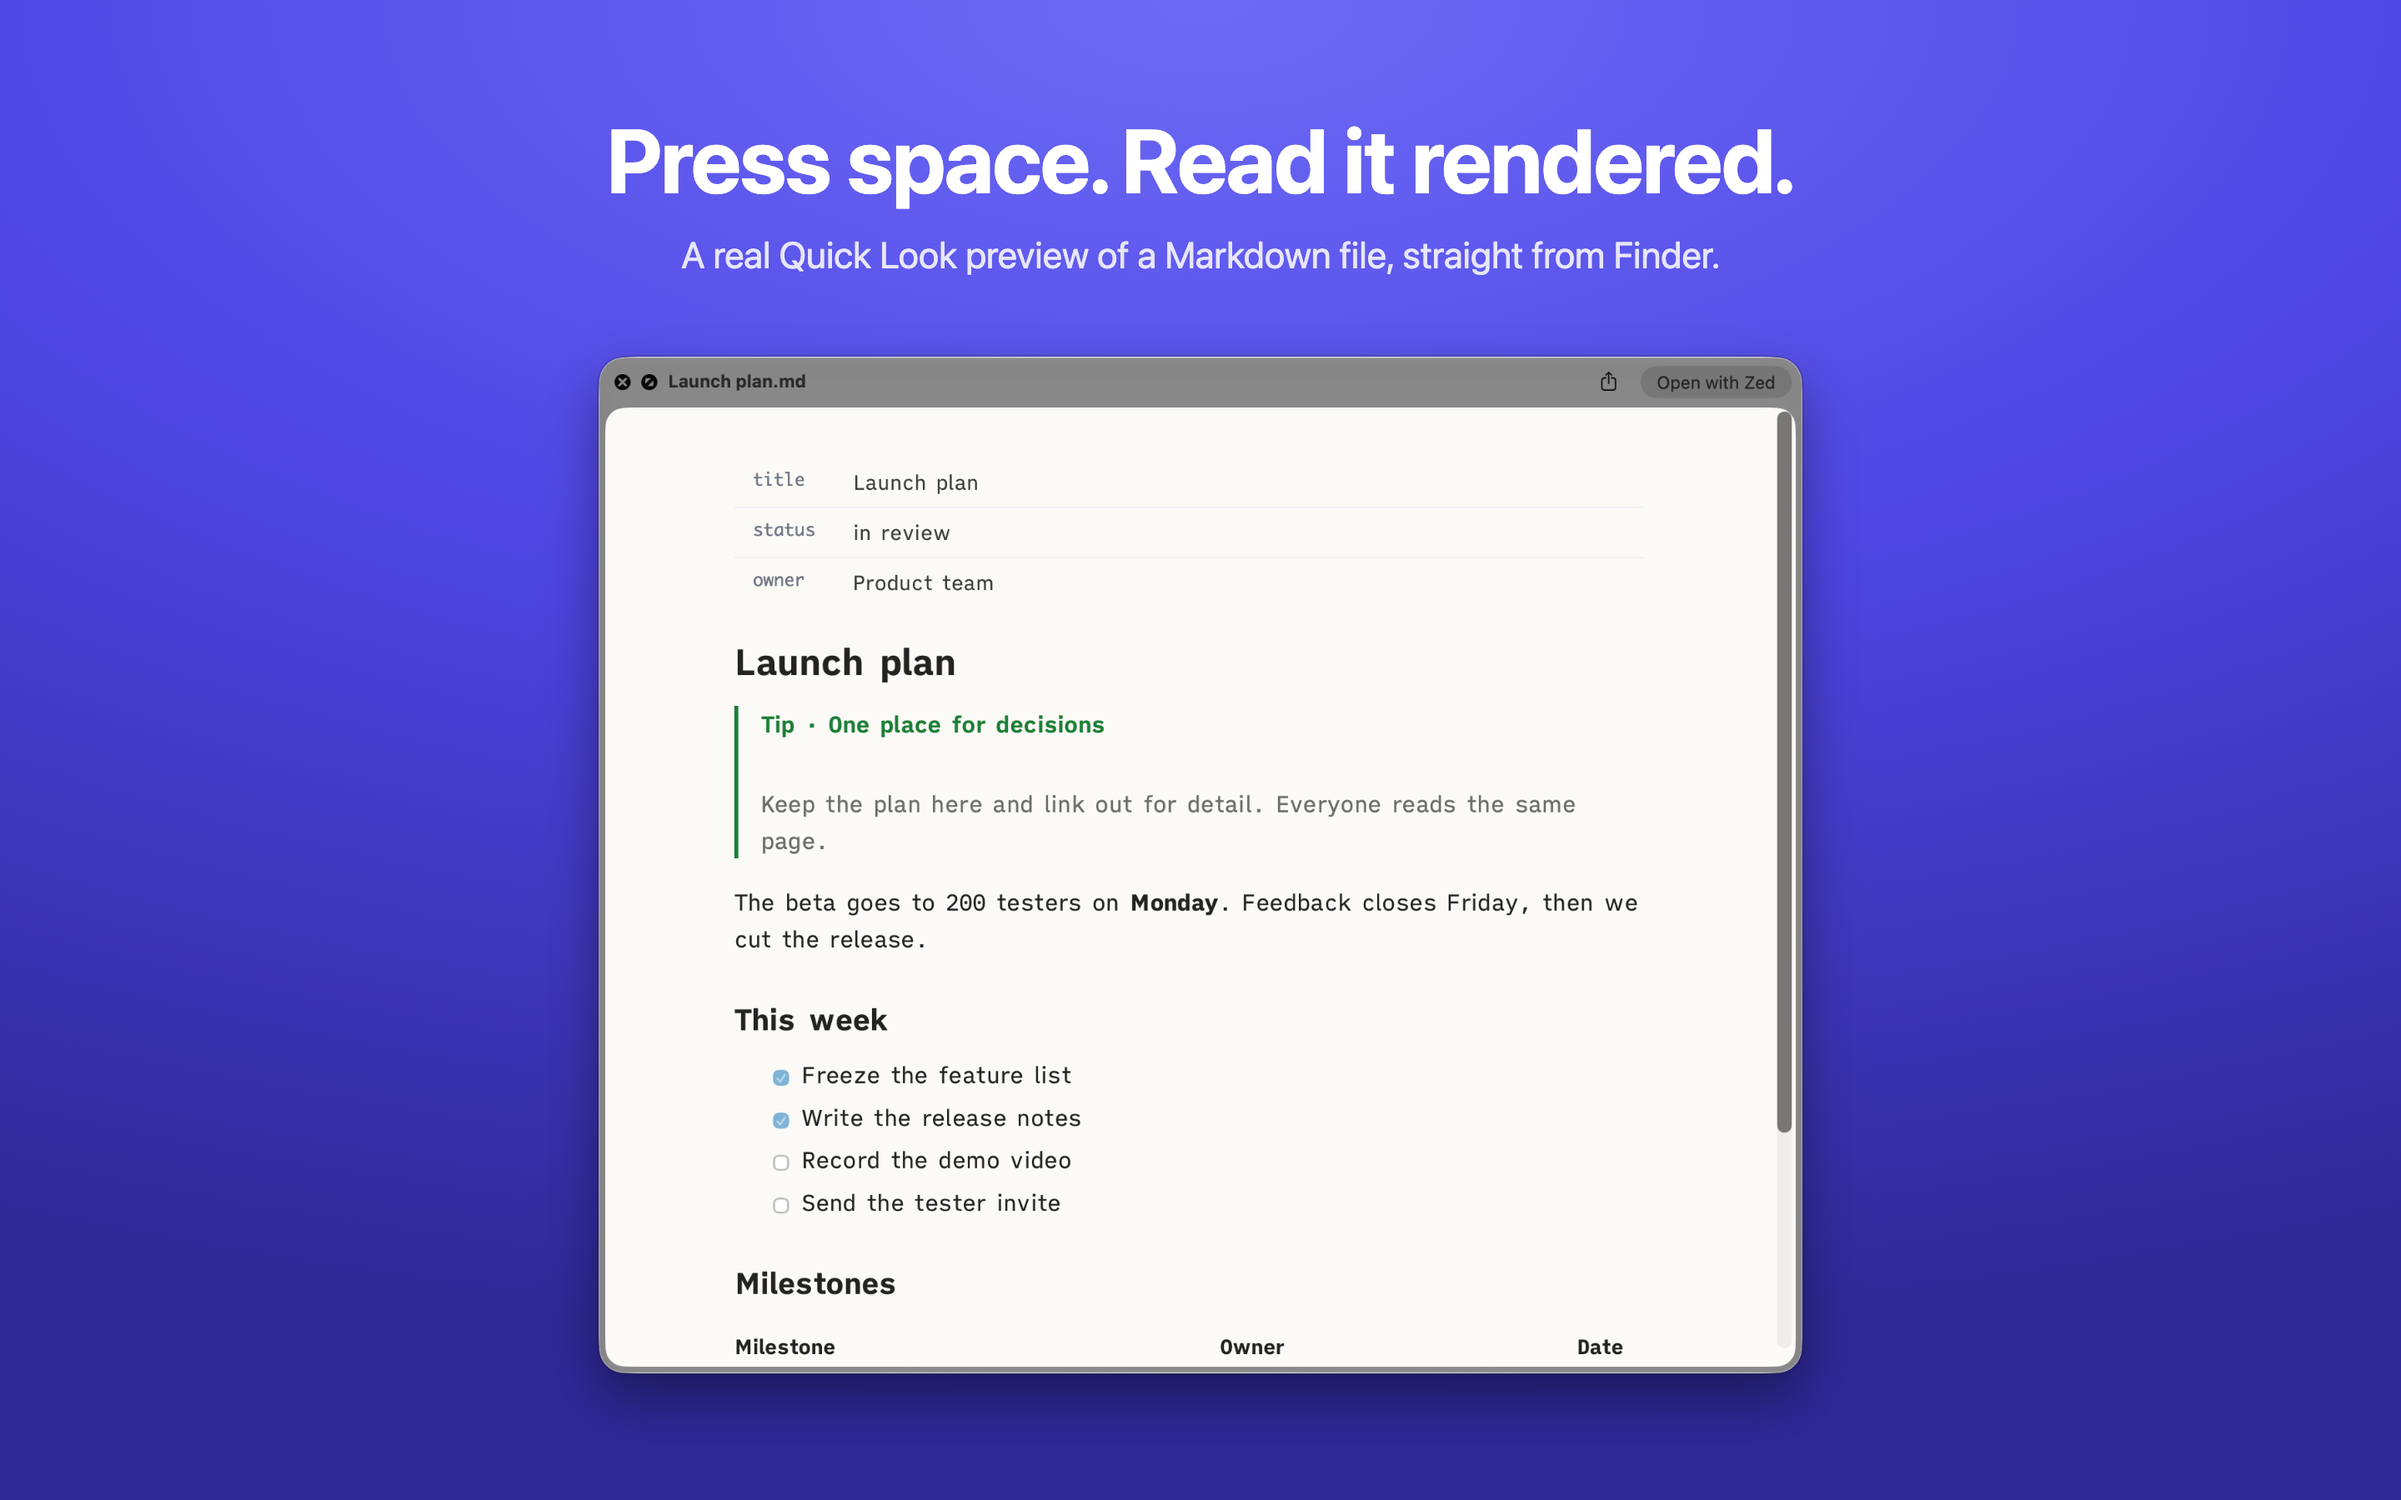
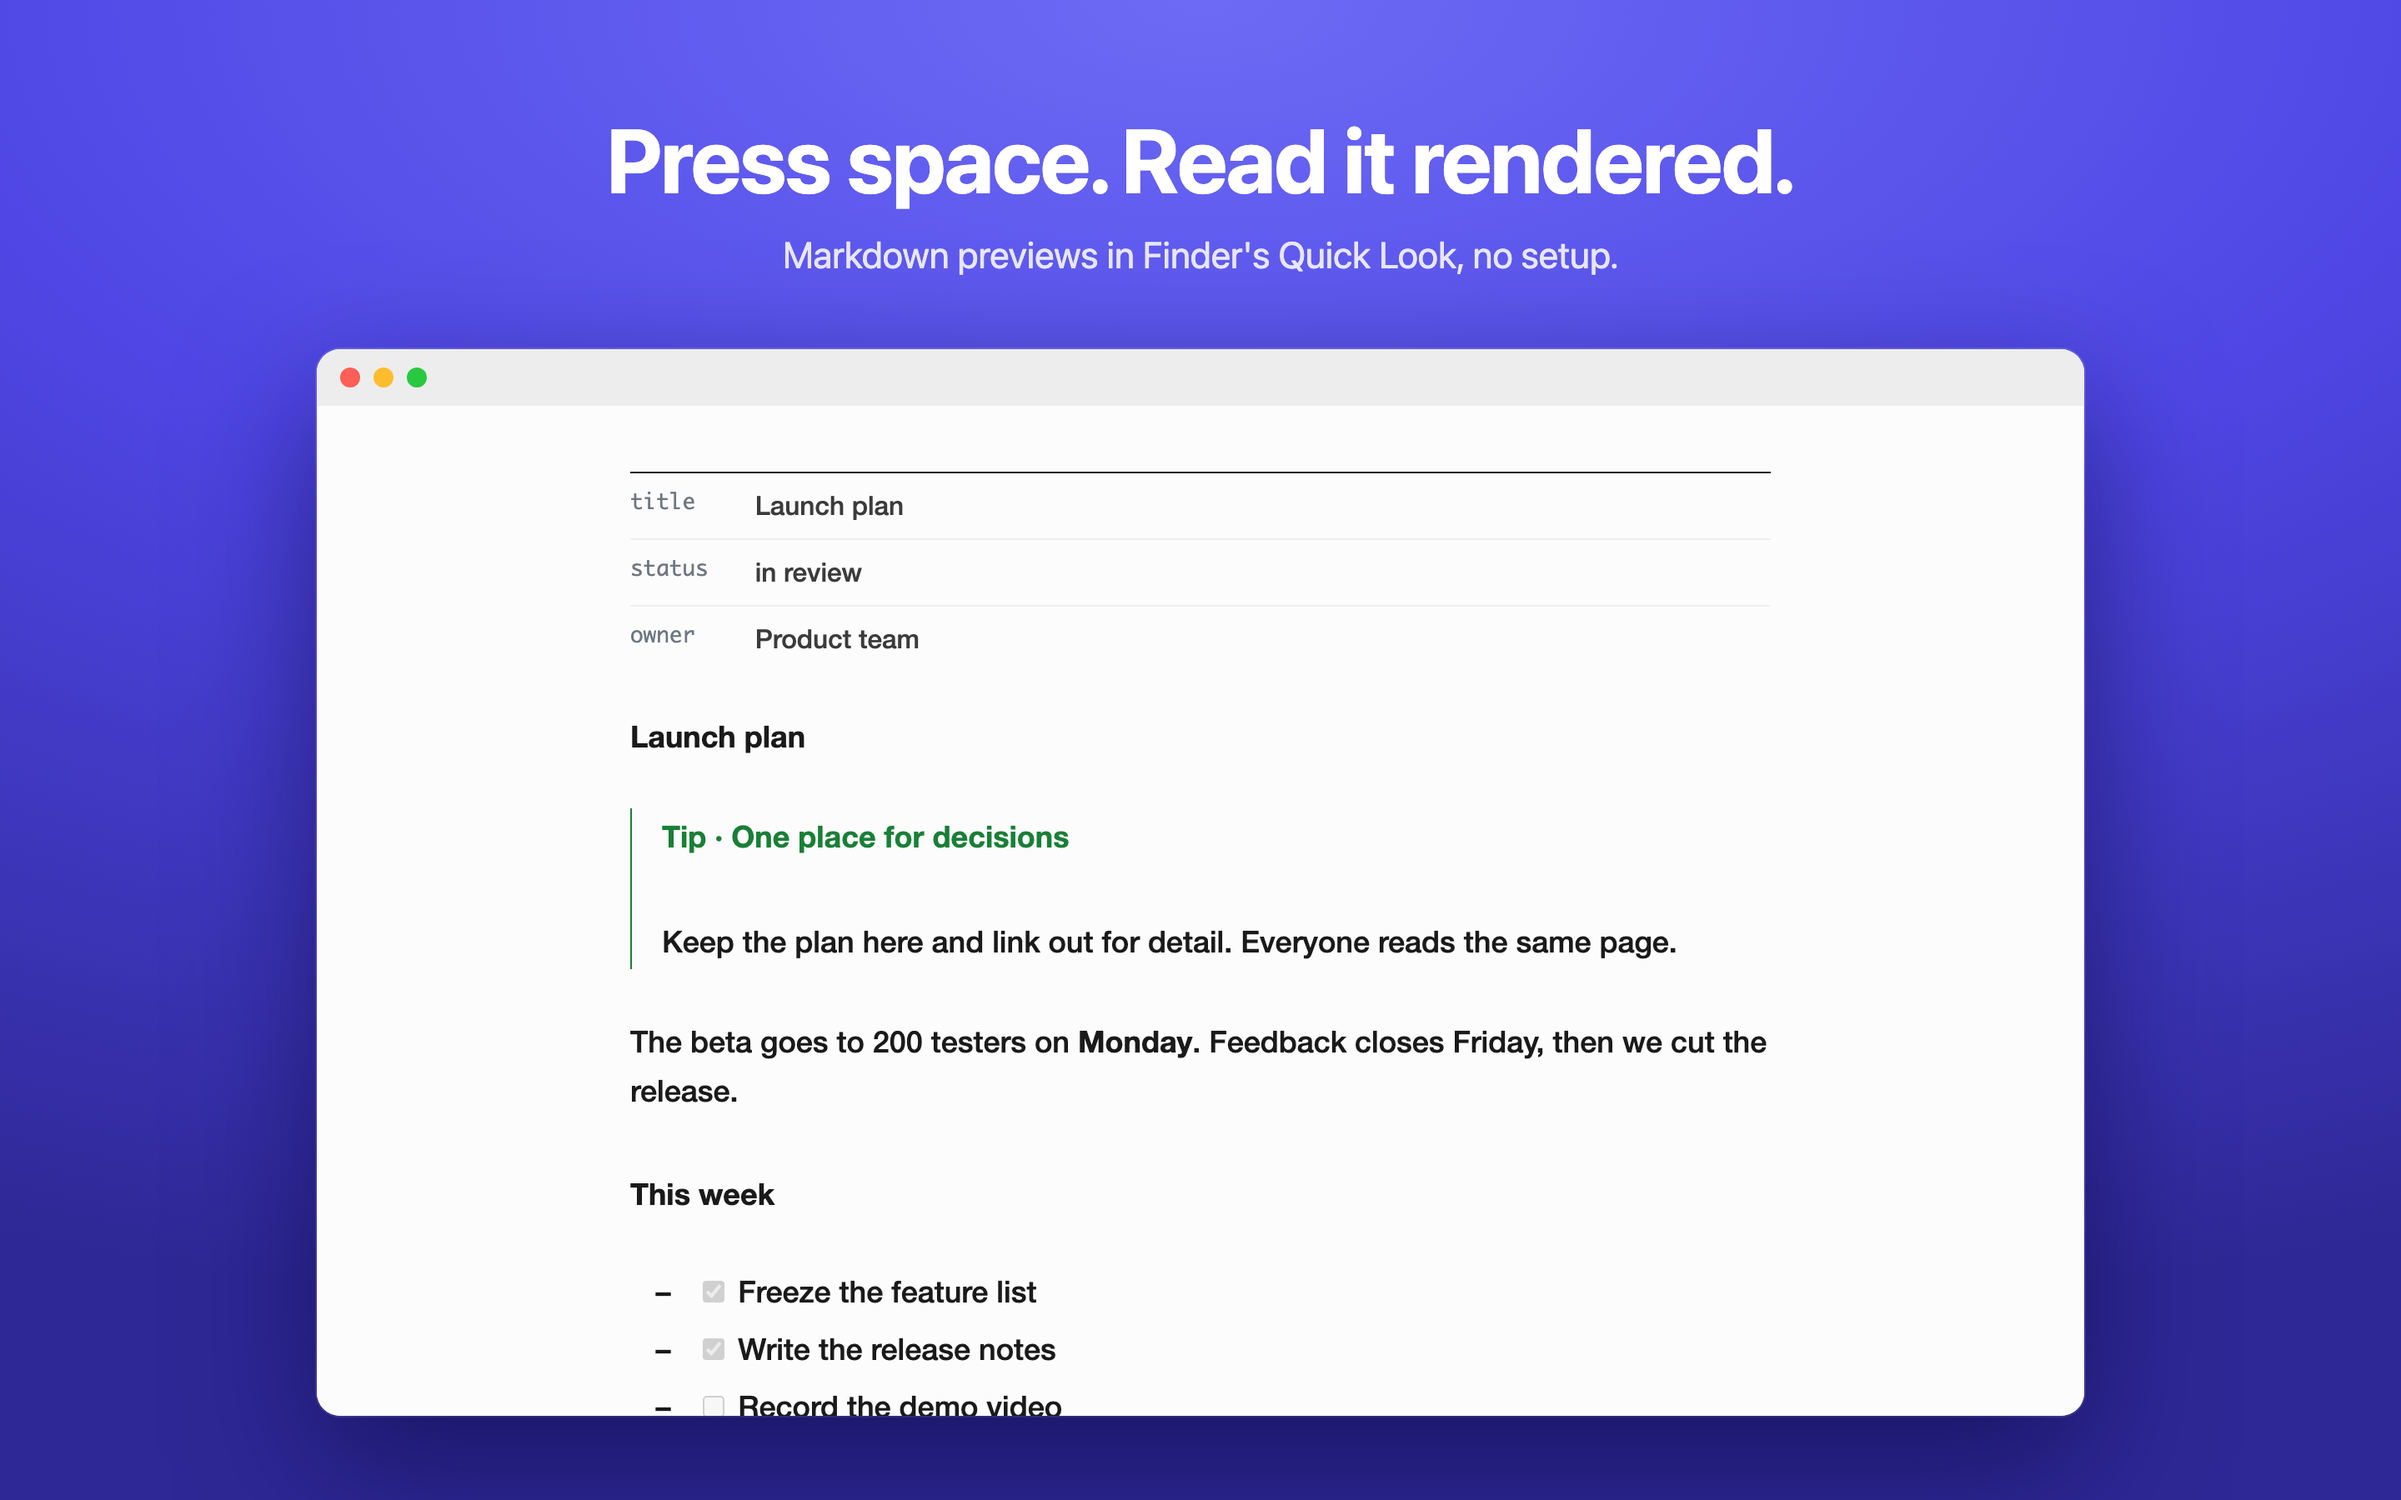
docs: regenerate App Store and README screenshots for release 1 (#78)
* docs: regenerate App Store and README screenshots for release 1

Screenshot scripts take a BROWSER override so a headless run never touches a running browser. Proof: docs/verification/r1-screenshots.md

* docs: proof output and embeds for the release 1 screenshots

Changed region(s): [[0.0938, 0.2178, 0.9062, 0.9956], [0.2812, 0.1556, 0.7188, 0.1867]]

diff --git a/docs/verification/r1-screenshots.md b/docs/verification/r1-screenshots.md
@@ -1,0 +1,46 @@
+# Proof of Done, r1-screenshots
+
+The App Store screenshots 1 and 2 and the README light and dark previews are re-rendered from the release 1 Quick Look pipeline. The three screenshot scripts take a `BROWSER` override (default unchanged: Brave), so a run can use a throwaway headless profile and never reach a running browser.
+
+## Green run
+
+| Command | Exit | Verdict |
+|---|---|---|
+| `BROWSER=<headless wrapper> bash scripts/window-shots.sh` | 0 | PASS (ql-light, ql-dark, safari-light) |
+| `BROWSER=<headless wrapper> bash scripts/readme-shots.sh` | 0 | PASS (quicklook-light, quicklook-dark; app-window byte-identical, the app window page did not change) |
+| `OUT=scripts/out BROWSER=<headless wrapper> bash scripts/store-shots.sh` | 0 | `1-light.png: 2880 1800`, `2-dark.png: 2880 1800`, copied to `docs/app-store/screenshots/1-quicklook.png` and `2-dark.png` |
+| `bash -n scripts/{window,readme,store}-shots.sh` | 0 | PASS |
+
+Each PNG was opened and read: light and dark render in the iA Writer faces (README) or the system faces (store, by design), frontmatter table, callout, tasks, KaTeX and tables typeset. Screenshot 3 (app window) is unchanged on purpose: the script header keeps it as is.
+
+## Negative control
+
+With `BROWSER` unset the scripts fall back to the original Brave path, so the old behavior is the default; the override line is the only script change (`git diff scripts/`).
+
+## Limits
+
+The X-ray and Present toolbar is not in these renders: `render-file.js` plus `qlwrap.js` emit the body only. `docs/images/quicklook-panel.png` is a real panel capture and was not regenerated.
+
+## Captured run
+
+```
+Command: syntax check of the three scripts, then pixel size of each regenerated PNG, then the staged diff
+Exit: 0
+Output:
+syntax rc=0
+docs/app-store/screenshots/1-quicklook.png 2880 1800 
+docs/app-store/screenshots/2-dark.png 2880 1800 
+docs/images/quicklook-light.png 900 1150 
+docs/images/quicklook-dark.png 900 1150 
+Verdict: PASS
+```
+
+## After
+
+| Store 1 | Store 2 |
+|---|---|
+| ![store 1](../app-store/screenshots/1-quicklook.png) | ![store 2](../app-store/screenshots/2-dark.png) |
+
+| README light | README dark |
+|---|---|
+| ![light](../images/quicklook-light.png) | ![dark](../images/quicklook-dark.png) |
